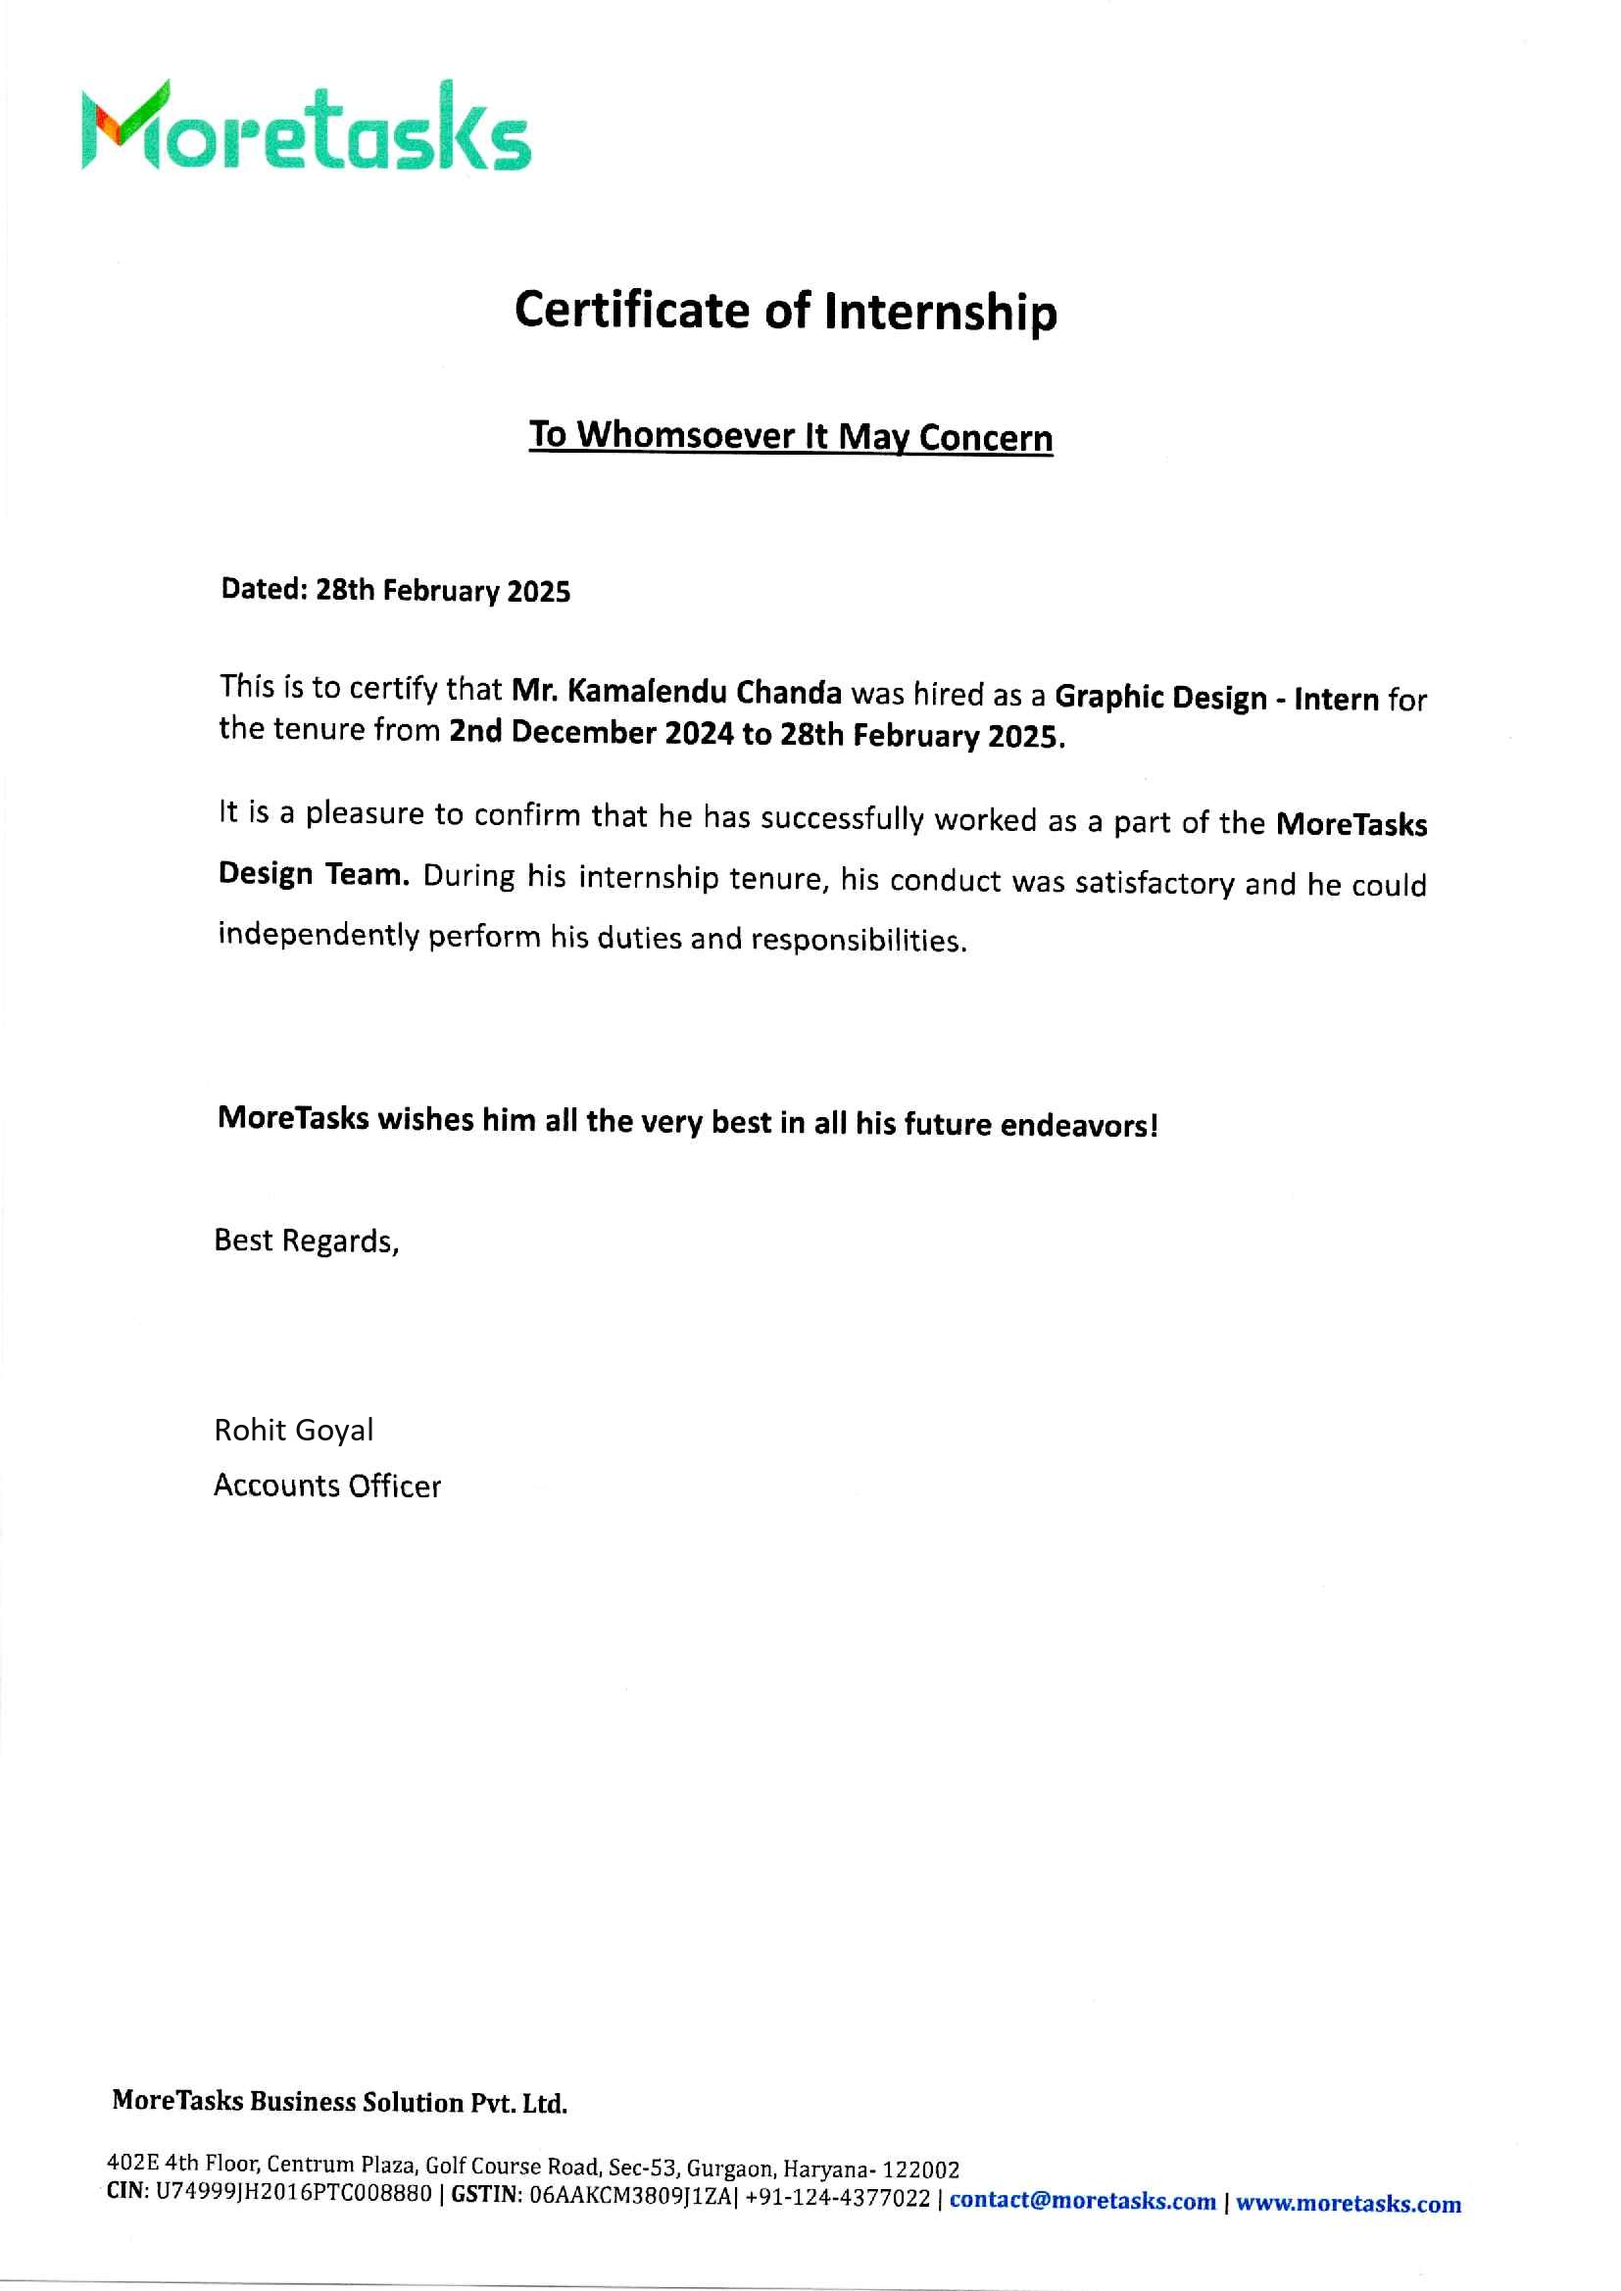
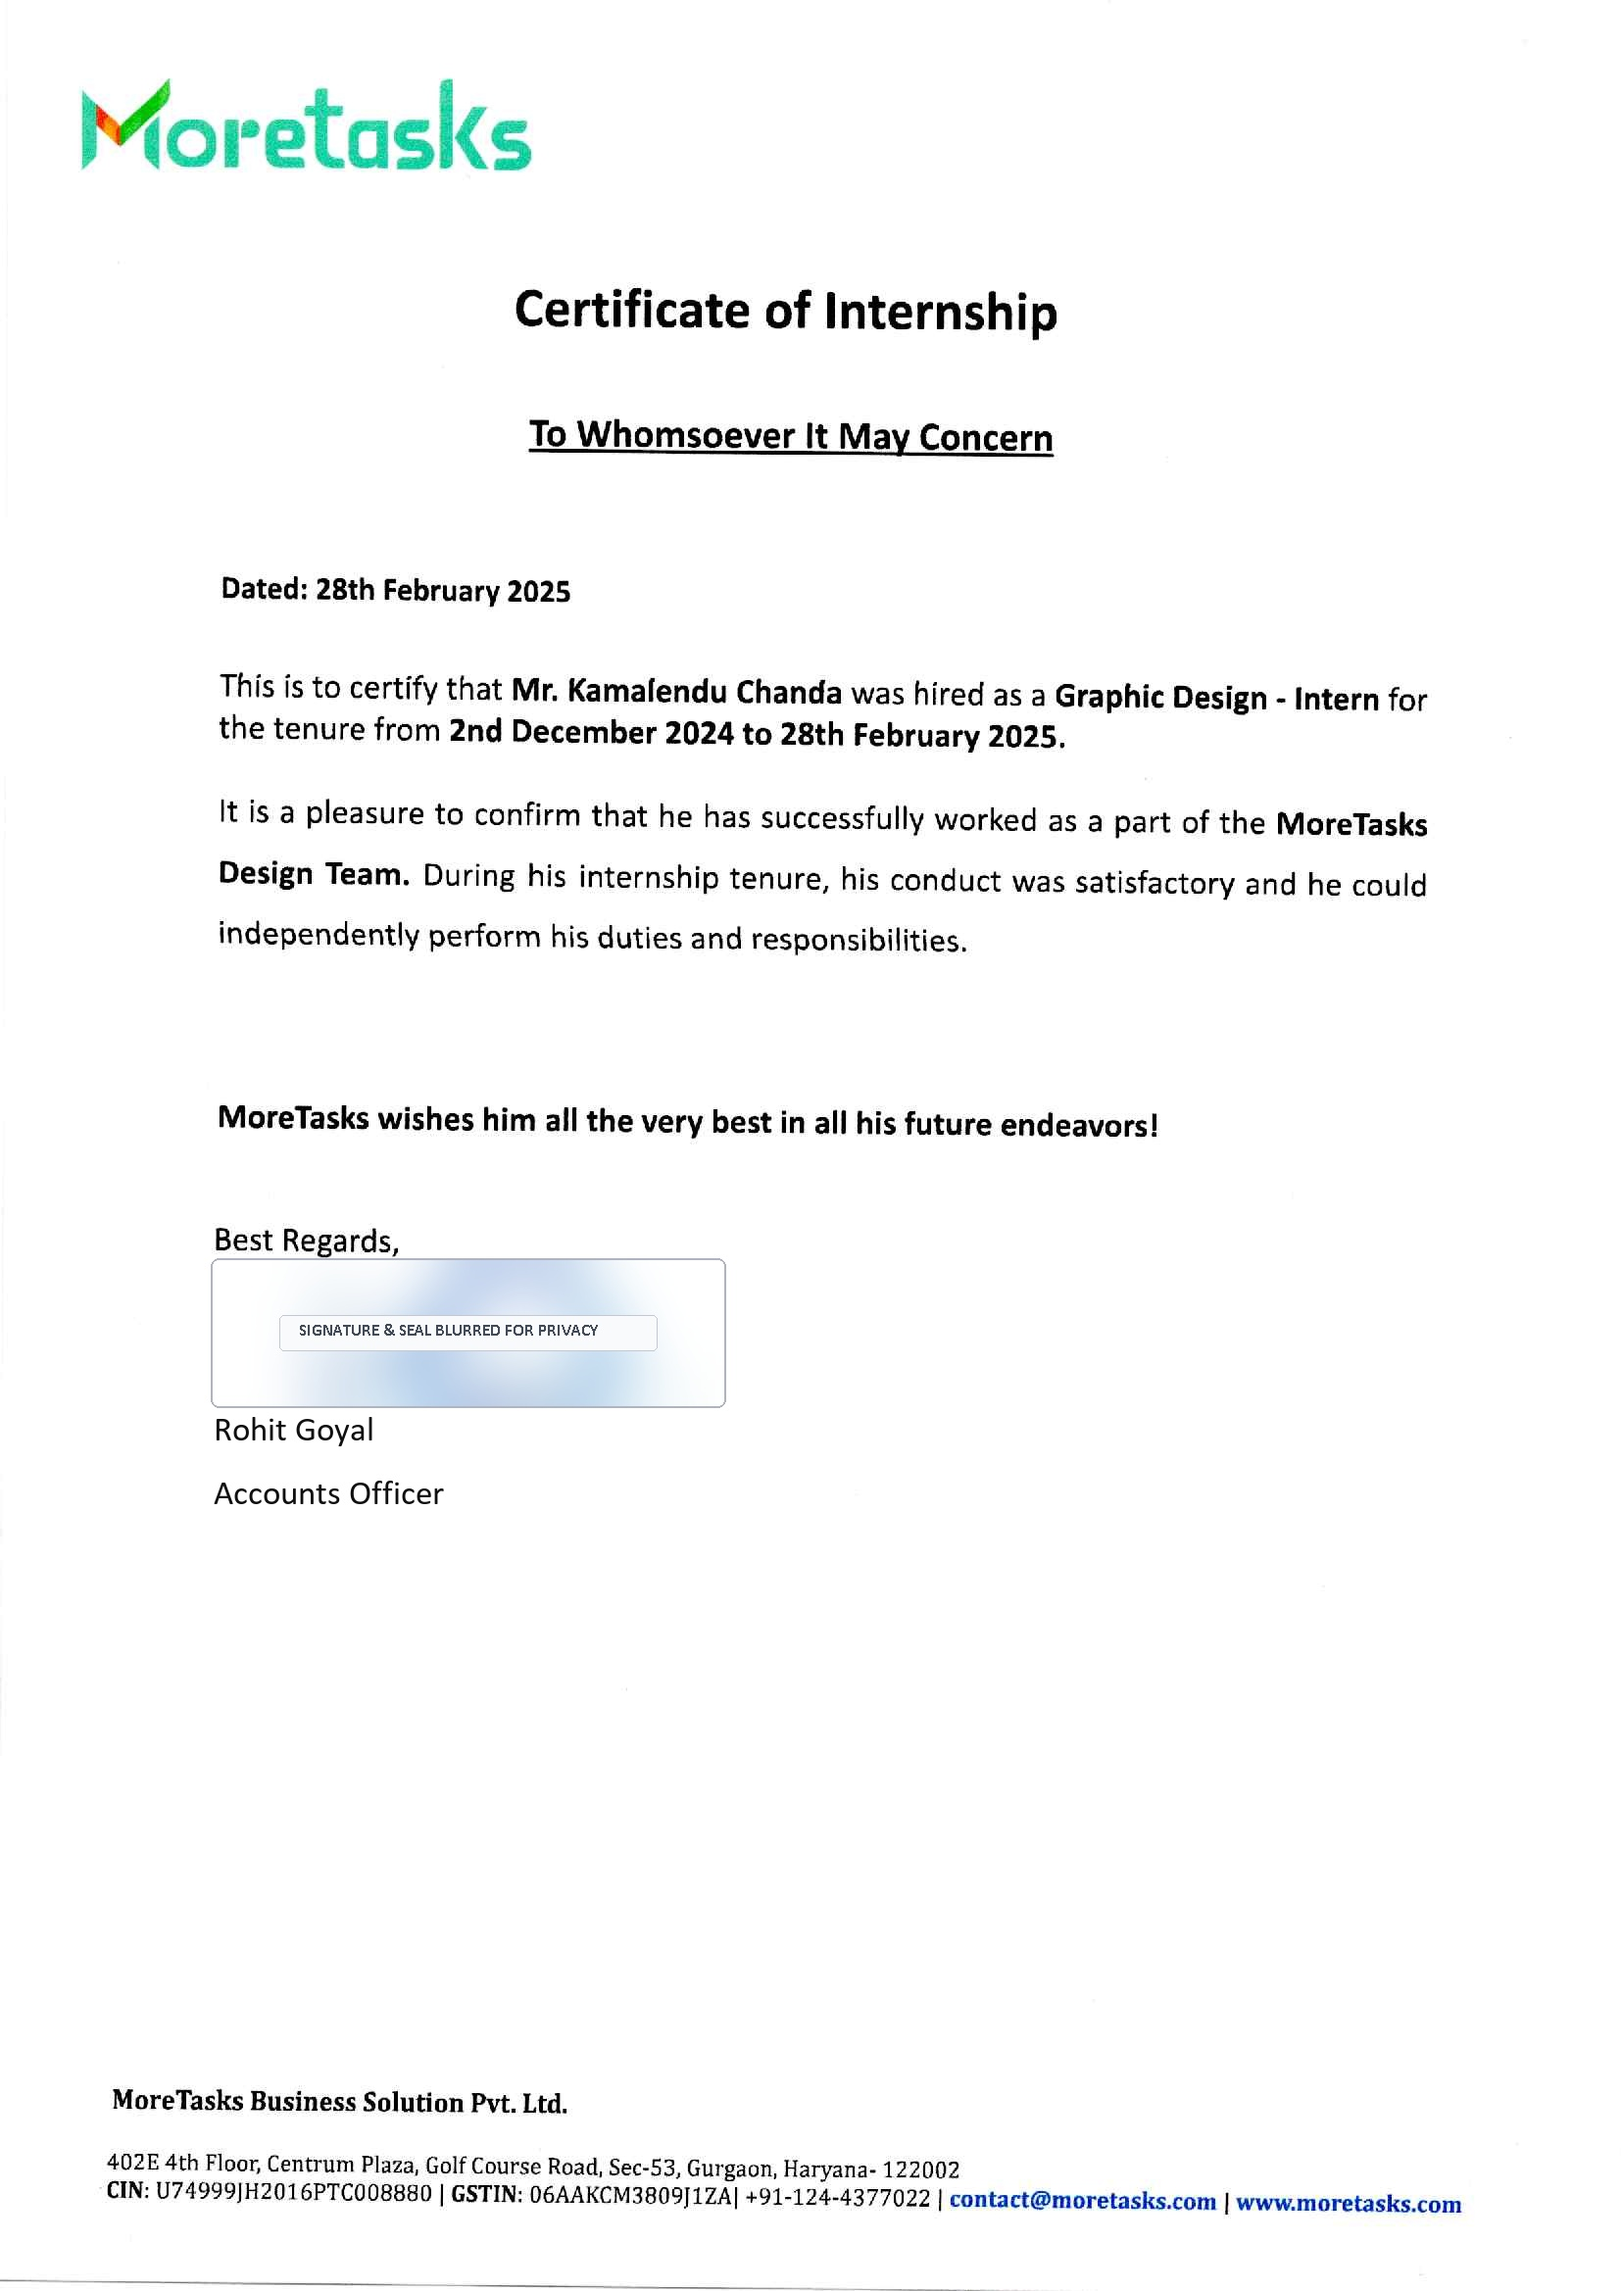
Hide signature and company stamp with frosted blur privacy box in internship document and PDF

Changed region(s): [[0.1233, 0.5308, 0.4008, 0.6557]]

diff --git a/index.html b/index.html
@@ -12,7 +12,7 @@
   <link rel="preconnect" href="https://fonts.gstatic.com" crossorigin>
   <link href="https://fonts.googleapis.com/css2?family=DM+Mono:ital,wght@0,400;0,500;1,400&family=Manrope:wght@300;400;500;600;700;800&family=Syne:wght@600;700;800&display=swap" rel="stylesheet">
 
-  <link rel="stylesheet" href="styles.css?v=6.0">
+  <link rel="stylesheet" href="styles.css?v=6.1">
 </head>
 <body>
   <!-- Ambient Grain Overlay -->
@@ -1249,6 +1249,6 @@
     </div>
   </div>
 
-  <script src="script.js?v=6.0"></script>
+  <script src="script.js?v=6.1"></script>
 </body>
 </html>

diff --git a/script.js b/script.js
@@ -1290,7 +1290,7 @@ function initExperienceCertificate() {
     gallery: [
       {
         url: 'assets/moretasks-certificate.jpg',
-        label: 'Official Certificate of Internship • Kamalendu Chanda • Graphic Design - Intern (2 Dec 2024 – 28 Feb 2025) • MoreTasks Business Solution'
+        label: 'Official Certificate of Internship • Kamalendu Chanda • Graphic Design - Intern (2 Dec 2024 – 28 Feb 2025) • MoreTasks Business Solution • Signature & Seal Blurred for Digital Privacy'
       }
     ]
   };
